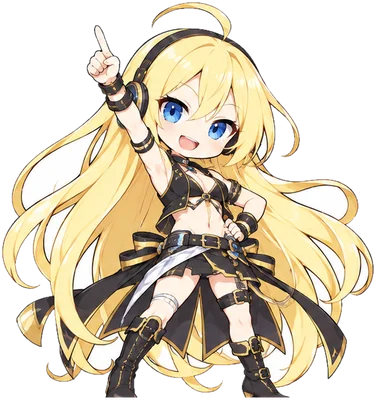
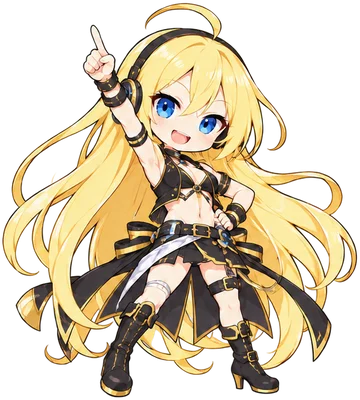
fix: cut voice character art with a real transparent background
The art was drawn on white and the white was flood-filled away from the
edges, which left white showing in gaps enclosed by hair. Regenerate
each sheet with a transparent background from the same drawings.

🤖 Generated with Claude Code

diff --git a/CLAUDE.md b/CLAUDE.md
@@ -115,7 +115,9 @@ pnpm dev
 - 歌声にはキャラの絵を付ける（2026-10-09）。本人が「キャラクター味を強めないと地味すぎる」と言い、公式の絵でなく AI 生成でよいとした。ChatGPT に二頭身・平塗り・同じ作風で4人ずつ描かせ、背景を抜いて `public/characters/{id}.webp`（400px）に置いた。どの歌声に絵があるかは `src/lib/voice-art.ts`。トップの歌声の区画は、絵のあるキャラだけを絵の札で並べる
   - 19キャラ（上位から VY1 を除いた分と、リリィ・蒼姫ラピス）。可不は1回目が公式と違ったので、特徴を書いて描き直させた。足すときは同じ会話で「同じ条件で」と頼むと作風がそろう
   - ポーズはキャラの性格に合わせて1人ずつ指定する。「同じ構図で」と頼んだら全員が同じポーズ（片手を広げてウインク）になり、本人に「同じポーズすぎ」と言われて描き直した。持ち物（ネギ・マグロなど）で寄せるのは本人が反対。ポーズと表情で寄せる
-  - 白い髪のキャラ（v flower・可不）は、背景を抜く線を厳しくしないと髪まで抜ける（切り出しのスクリプトは残していない。白の地をマスの縁から塗りつぶして抜いた）
+  - 背景は ChatGPT に透過で出させる。白の地を手元で抜くと、髪のすき間のような線に囲まれた白が残る。最初は白の地で作って手元で抜き、本人に「透過が甘い」と言われて出し直した
+  - 出来た絵を透過にするときは、その画像を添付して「絵を一切変えずに背景だけ透過」と頼む。添付せずに「さっきの絵を透過で」と頼むと、文章から描き直されて細部が変わった（1枚目の直後だけは保たれた）
+  - 切り分けは、透過のシートの塊を重心のあるマスごとに集めて切った（スクリプトは残していない）
   - 絵は Vercel の画像変換を通さない（元から小さい）
   - 利用規約に、AI で作った非公式のファンアートであることと、取り下げの依頼に応じることを書いた。結月ゆかり・紲星あかりは 2025-07 の規約で AI の絵の収益化が禁止されている。収益化するならこの絵は外す
   - ボカロのファンには AI の絵への反発がある。反応が悪ければ外す
